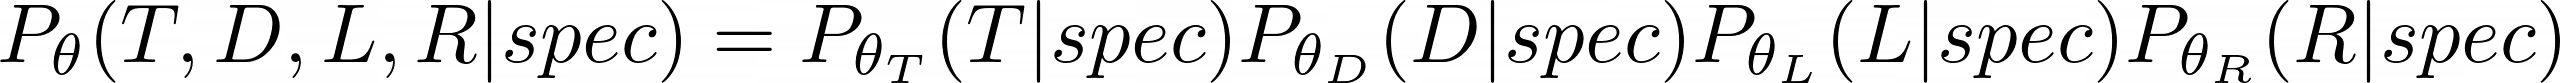
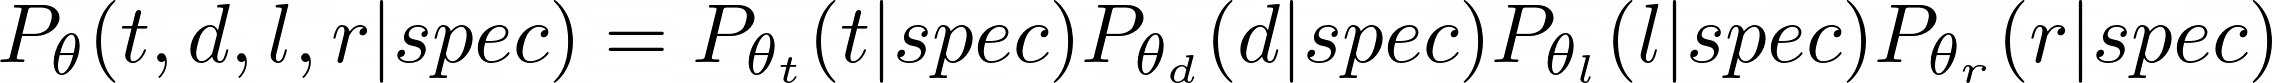
phew, done with part 3 edits

Changed region(s): [[0.0, 0.0, 1.0, 1.0]]

diff --git a/_posts/2022-08-16-generating-programs.md b/_posts/2022-08-16-generating-programs.md
@@ -1,56 +1,73 @@
 ---
 layout: post
-title:  "generating programs with language models"
+title:  "writing programs with language models"
 permalink: /generating-programs/
 ---
 
-With infinite compute, program synthesis is trivial -- just look through all programs for one that works. In practice, we need to find a working program with as few samples as possible. This post covers how to _generate_ programs using language modeling.
+With infinite compute, program synthesis is trivial -- iterate through all programs for one that works. In practice, we need to find a working program with as few samples as possible. This post covers how to _generate_ good programs using language modeling.
 
-Let's start with a short re-cap of last post.
+Let's start with a short recap of last post.
 
 ## the problem
-The `spec` is: rectangle that keeps the grass coordinates inside, and mushrooms outside.
+The task is make a rectangle that keeps the grass coordinates inside, and mushroom coordinates outside. This task is represented as a specification of input-outputs, `spec`, given below.
 ![Image with caption](/program-synthesis-primer/assets/generating-programs/spec.png "icons created by Freepik - Flaticon, monkik")
 
-## the dream and the reality
+## the ground-truth distribution
 
-Given this `spec`, let's look up its corresponding row `M[spec,:]` in the meaning matrix.
+Given this particular `spec`, let's look up its row `M[spec,:]` in the meaning matrix. For every rectangle (the program), this row contains information on whether it is correct on our `spec`.
 
 ![Image with caption](/program-synthesis-primer/assets/generating-programs/a-row.png)
 
-The **ground-truth distribution** for program synthesis can be constructed using `M[spec,:]`, with probability proportional to whether the entry `M[spec,prog]` is correct. This distribution gives uniform probability over correct programs, and 0 probability over incorrect programs.
+Given `spec`, the **ground-truth distribution** for program synthesis can be constructed by first counting[^model-counting] the number (`N`) of correct programs, and putting a weight of `1/N` on each.
 
-![Image with caption](/program-synthesis-primer/assets/generating-programs/ground-truth.png ){: width="70%" }
+![Image with caption](/program-synthesis-primer/assets/generating-programs/gt-distri.png)
+![Image with caption](/program-synthesis-primer/assets/generating-programs/ground-truth.png ){: width="60%" }
 
-The _dream_ is that we can easily sample from the ground-truth distribution. <ins>The _reality_ is that sampling from the ground-truth distribution is _hard_</ins> -- While we can easily check whether a given program is correct with respect to the spec, coming up with such programs is difficult. 
+Program synthesis requires us to sample from this ground-truth distribution. Unfortunately, sampling from the ground-truth distribution is _hard_. While we can easily check if a program is correct given the spec, coming up with correct programs is difficult. 
 
-## the synthesis algorithm
+## program synthesis as rejection sampling
 
 In practice, we resort to _rejection sampling_ from this ground-truth distribution using synthesis.
 
 ![Image with caption](/program-synthesis-primer/assets/generating-programs/approximate.png ){: width="75%" }
 
-This distribution is implemented by the synthesis algorithm -- a program writer _proposes_ somewhat plausible programs, then a checker _filters_ for correctness. 
+Given the specification, the program writer _proposes_ (a large number of) programs, then a checker _filters_ the proposals for correctness against the spec.
 
-![Image with caption](/program-synthesis-primer/assets/synthesis-problem/synthesizer-gut.png )
+![Image with caption](/program-synthesis-primer/assets/synthesis-problem/synthesizer-gut2.png )
 
-Thus, <ins>the better the writer (closer to ground-truth), the fewer programs the checker has to check</ins>. To implement a reasonable program writer, we turn to language models.
+## getting a program-writer close to ground-truth
+
+The "closer" the writer distribution is to the ground-truth, the fewer programs the synthesis algorithm has to sample (i.e. more efficient)[^not-true]. Closer is formalized as an expected KL-divergence:
+
+![Image with caption](/program-synthesis-primer/assets/generating-programs/approx-goal1.png ){: width="80%" }
+
+Which means, over a prior distribution of specifications `P(spec)`, we want `P_writer(prog|spec)` be close (small KL divergence) to `P_ground-truth(prog|spec)`. 
+
+ To obtain program writers that are close to ground-truth, we turn to language models.
 
 # language models
 
- A **language** is a set of strings (a sequence of characters). A **language model** assigns probabilies over the strings within a language. For a language model to be a good program writer, it needs to put high probabilities over strings that _resemble_ correct programs. We start with **unconditional language models** -- models that generates programs unconditioned on specifications. 
+A **language** is a set of strings (a sequence of characters). A **language model** assigns probabilies over the strings within a language[^karpathy]. Note: the programs in this post are all represented as strings.
+ 
+## unconditional generation
+
+We start with **unconditional language models** -- models that ignore the specifications. Ignoring the specification is certainly a limitation, but it makes a good starting point.
+
+![Image with caption](/program-synthesis-primer/assets/generating-programs/prior_approx.png ){: width="50%" }
+
+Let's fix a typical string representing a program, `"[1,3,1,4]"`, as our target to generate. We'll analyze how well can different unconditional language models generate it.
 
 ### all strings
-We can generate a sequence by uniformly picking a random character a number of times. This language contains all possible strings of a certain length.
+We can generate a string by uniformly picking a random character a number of times. This language contains all possible strings of a certain length.
 {% highlight python %}
 def writer1():
     return ''.join(random.choice(string.printable) for i in range(9))
 print(writer1()) # you should see something like "=1Vi![Au37"
 {% endhighlight %}
-A typical program string such as `[1,3,1,4]` has 9 characters, and each character has a probability of `1 / len(string.printable)`. Thus this writer has a `(1/100)^9` chance of stumbling across it.
+A typical program string such as `"[1,3,1,4]"` has 9 characters, each has a probability of `1 / len(string.printable)`. Thus this writer has a `(1/100)^9` chance of stumbling across it. Not good.
 
-### writable programs
-We can restrict the generation to "strings that look like programs". This is done with a **domain specific language** (DSL), which identifies a "reasonable" subset of all-strings as programs. The DSL is specified by a **generator** -- a process capable of generating strings within the DSL.
+### DSL
+We can restrict the generation to "strings that look like programs". This is done with a **domain specific language** (DSL), which identifies a "reasonable" subset of all-strings as programs. The DSL is specified by a **generator** -- a process capable of generating strings within the DSL[^DSL].
 {% highlight python %}
 def writer2():
     # W is globally defined to be 6
@@ -61,9 +78,9 @@ def writer2():
     return '['+str(U)+','+str(D)+','+str(L)+','+str(R)+']'
 print(writer2()) # you should see something like "[5,2,1,0]"
 {% endhighlight %}
-By giving structure to the language, we increased our chance to `(1/6)^4` to encounter the program `[1,3,1,4]`, despite our DSL containing uninterpretable programs such as `[5,2,1,0]`.
+Giving structure to the language, we increased our chance to `(1/6)^4` to encounter the program `"[1,3,1,4]"`, despite our DSL containing uninterpretable programs such as `"[5,2,1,0]"`.
 
-### legal programs
+### better DSL
 We can further refine our DSL to be "tighter" to exclude uninterpretable programs. 
 {% highlight python %}
 def writer3():
@@ -75,14 +92,14 @@ def writer3():
     return '['+str(U)+','+str(D)+','+str(L)+','+str(R)+']'
 print (writer3()) # you should see something like "[0,2,4,5]"
 {% endhighlight %}
-What's our chances of stumbling across `[1,3,1,4]` now? I'll leave the combinatorics to you -- is `writer3` uniform across all legal programs? 
+What's our chances of stumbling across `"[1,3,1,4]"` now? I'll leave the combinatorics to you. Bonus question, is `writer3` uniform across all interpretable programs? 
 
-### unconditional generation is prior distribution of programs
-The language models covered so-far are un-conditional language models, with no way to "steer" it into different distributions. This is a **prior distribution** -- how programs are naturally distributed, in the absence of specifications. One can use the prior `P(prog)` as a program writer as is.
+## synthesis with prior distribution
+Unconditional language models gives a **prior distribution** -- how programs are naturally distributed, in the absence of specifications. One can use the prior `P(prog)` as a writer as-is.
 
 ![Image with caption](/program-synthesis-primer/assets/generating-programs/prior-synthesis.png ){: width="75%" }
 
-This often resulting in a "good enough" synthesis algorithm for a small space of programs, and is among the first things a synthesis practictioner will try. We now turn to conditional generation.
+This often resulting in a "good enough" synthesis algorithm for a small space of programs[^lambda2], and is among the first things a synthesis practictioner will try.
 
 <br>
 <hr>
@@ -90,23 +107,51 @@ This often resulting in a "good enough" synthesis algorithm for a small space of
 <hr>
 <br>
 
-# approximating ground-truth via training
+# training a conditional generator
 
-Rather than approximating ground-truth synthesis distribution by hand, it is often simpler to _train_ a parameterized program-writer `P_theta(prog|spec)`. The objective is this:
+In conditional generation, a program writer takes `spec` into account while sampling for plausible programs. We have seen a few from last post. However, it is often simpler to _train_ a parameterized program-writer using data.
 
-<br>
-![Image with caption](/program-synthesis-primer/assets/generating-programs/approx-goal.png ){: width="90%" }
-<br>
-Which is to say, over some distribution of specs, minimize the KL distance between the ground-truth and the program-writer. 
+![Image with caption](/program-synthesis-primer/assets/generating-programs/param-writer.png ){: width="50%" }
 
-To turn this objective into an algorithm, we leverage a remarkable property of programs: while it is difficult to generate correct programs from specifications, <ins>it is trivial to generate correct specifications from programs</ins>.
+Here, the writer is from a parametric family of functions (e.g. neural networks with weights), and we seek to find a parameter `theta` that minimizes the expected KL-divergence between our writer distribution and the ground-truth distribution. 
+
+![Image with caption](/program-synthesis-primer/assets/generating-programs/objective-eq.png ){: width="90%" }
+
+We have a conundrum -- To optimize this objective, we need the ground-truth distribution to begin with! We resolve this issue by exploiting the following asymmetry:
+
+![Image with caption](/program-synthesis-primer/assets/generating-programs/the-trick.png ){: width="80%" }
+
+## the approximation lemma of program synthesis
+**lemma:** Let **D** be a dataset consisting of `(prog,spec)` pairs drawn from the joint-distribution `P(prog,spec)`. We can use conditional density estimation on D (i.e. supervised learning) to approximate the ground-truth synthesis distribution  [^thm1].
+
+![Image with caption](/program-synthesis-primer/assets/generating-programs/lemma.png ){: width="90%" }
+
+With a big enough dataset D and a flexible enough model class, training the program-writer `P_theta(prog|spec)` will approach the ground-truth distribution. Moreover, generating D is fully automatic and requires no human annotations! I'll show you how.
+
+## making the dataset D of joint-distribution samples
+Each data-point of D is a tuple `(prog,spec)` from this distribution:
+
+![Image with caption](/program-synthesis-primer/assets/generating-programs/joint-sample.png ){: width="50%" }
+
+We first generate a program from a prior, then a specification conditioned on this program.
+
+![Image with caption](/program-synthesis-primer/assets/generating-programs/generate-D1.png ){: width="90%" }
+
+## generating programs from a prior
+
+We know how to do this already -- this is simply unconditional language generation (e.g. `writer3` from earlier). Still, if we can actually obtain a naturalistic dataset of programs, it would serve as a better prior. For instance, codex leveraged the github corpus. 
 
 ## generating specifications from programs
-Given a program, we can generate a specification for it by: (1) sampling some random inputs, (2) executing the program to obtain their corresponding outputs.
+Given a program, we can generate a specification for it by: 
+1. sampling some random inputs
+2. executing the program to obtain their corresponding outputs.
+
+For our rectangle domain, we first generate some random coordinates (inputs), and see where they lie (outputs) on a given rectangle (program). 
 
 ![Image with caption](/program-synthesis-primer/assets/generating-programs/sampling-spec.png ){: width="90%" }
 
 This is what it looks like in code:
+
 {% highlight python %}
 def sample_input():
     return random.randint(0,W-1), random.randint(0,W-1)
@@ -123,17 +168,9 @@ r_spec = sample_spec("[1,3,1,4]")
 print (r_spec) # [((5, 2), False), ((4, 4), False), ((0, 1), False), ((3, 3), True)]
 {% endhighlight %}
 
-## procedurally generating a dataset **D**
+## putting it together
 
-We can generate a **dataset** D by first generating a program, then generate its specification.
-
-![Image with caption](/program-synthesis-primer/assets/generating-programs/generate-D.png ){: width="90%" }
-
-Each point of the dataset follows this distribution:
-
-![Image with caption](/program-synthesis-primer/assets/generating-programs/joint-sample.png ){: width="50%" }
-
-This is what it looks like in code:
+This is how you typically generate a dataset D for a given synthesis problem.
 
 {% highlight python %}
 def sample_D(n_samples):
@@ -150,44 +187,29 @@ print (D[4542]) # should see something like ('[3,5,4,6]', [((1, 0), False), ((5,
 
 ## D is a sample of M
 
-One should view <ins>the dataset D as a *sampled summary* of the meaning matrix M</ins>. While it is impossible to enumerate all entries of M, we can nonetheless take samples from it.
+One should view <ins>the dataset D as a *sampled summary* of the meaning matrix M</ins>. While it is impossible to enumerate all entries of M, we can nonetheless take samples from it. By taking more and more samples, we can better observe the landscape of M.
 
 ![Image with caption](/program-synthesis-primer/assets/generating-programs/sample_D.png ){: width="80%" }
 
-## the approximation theorem of program synthesis
-
-<br>
-<ins>**theorem**: For a parameterized program-writer, we can use supervised learning on D to approximate the ground-truth synthesis distribution.</ins>
-
-![Image with caption](/program-synthesis-primer/assets/generating-programs/approx-kl.png ){: width="90%" }
-<br>
-
-[Full proof typical in the style of variational inference, (X=spec, Y=prog)](/program-synthesis-primer/assets/generating-programs/proof.jpeg) with [kevin's approval](/program-synthesis-primer/assets/generating-programs/proof.png).
-
-This is a typical result from most amortized inference set-ups, where the "forward" probability is simple and the "backward" can be learned. Nonetheless, this theorem has practical implications. 
-
-1. (scaling) training the program-writer will approach the ground-truth distribution in the limit
-    - given a big enough sample of D
-    - given a flexible enough model class of program-writers
-2. (procedural) generating D requires no human annotations
-    - the entirety of M is defined by progs, specs, and the interpreter that relates them
-    - attractive for self-play style of trainings
+With the dataset D, we're now ready to do some learning.
 
 <br>
 <hr>
-[Let's take another break](https://www.youtube.com/watch?v=c--etqIJcow&ab_channel=RapidLiquid). We're almost done
+[phew! let's take another break](https://www.youtube.com/watch?v=c--etqIJcow&ab_channel=RapidLiquid). We're almost done
 <hr>
 <br>
 
-# conditional generation using unigrams
+# conditional generation with fitted unigrams
 Let's put the theory into practice using our rectangle example. One of the simplest ways to generate programs is a **unigram distribution** where, conditioned on the `spec`, samples each attributes of the program _independently_. Note that we're accepting this flawed assumption (the parameters of the rectangles are definitely not independent) for computational simplicity. 
 
 ![Image with caption](/program-synthesis-primer/assets/generating-programs/factored.png ){: width="90%" }
 
-Each of the T,D,L,R factors can then be treated as a multi-way classification problem. For no particular reason, we'll model it using `sklearn.linear_model.LogisticRegression()`.
+We can treat a factor, such as `t`, as its own multi-way classification problem, mapping the specification to the top boundary (i.e. one of `[0, 1, ... W-2]`) of the rectangle.
 
-### encoding the spec
-We choose to encode the spec in the most naive way possible, as a linearized (WxWx2) grid, where the last "channel" indicate whether a coordinate in WxW is inside or outside the rectangle.
+## encoding the spec as a vector of binary features
+We encode the spec naively as a binary, linearized (WxWx2) feature vector.
+
+![Image with caption](/program-synthesis-primer/assets/generating-programs/bit-vec1.png ){: width="90%" }
 
 {% highlight python %}
 def spec_to_bitvec(spec):
@@ -200,14 +222,15 @@ def spec_to_bitvec(spec):
     return bitvec.flatten()
 {% endhighlight %}
 
-### fitting the factors independently
+## fitting the factors independently
+Given our spec feature vector, we fit 4 different conditional unigram distributions, one for each attribute of the rectangle using logisticRegression[^logreg]. Feel free to experiment with other classifiers such as boosted trees, nearest neighbors, or a conv-net.
 
 {% highlight python %}
 import sklearn.linear_model
 # train the unigram distribution
-def train_unigram(D):
+def train_unigram(Data):
     spec_bitvec, Ts, Ds, Ls, Rs = [], [], [], [], []
-    for prog, spec in D:
+    for prog, spec in Data:
         T, D, L, R = eval(prog)
         spec_bitvec.append(spec_to_bitvec(spec))
         Ts.append(T)
@@ -231,7 +254,10 @@ def train_unigram(D):
     return model_T, model_D, model_L, model_R
 {% endhighlight %}
 
-### making a program-writer using the fitted unigrams
+## making a program-writer using the fitted unigrams
+
+Once our conditional unigram distribution is fitted, we can use it to write programs at inference time. Each attribute of the rectangle will be sampled independently, and put together to form a (hopefully valid) rectangle.
+
 {% highlight python %}
 def get_writer4(model_T, model_D, model_L, model_R):
     def writer4(spec):
@@ -248,19 +274,32 @@ def get_writer4(model_T, model_D, model_L, model_R):
     return writer4
 {% endhighlight %}
 
-## compare different language models
+## compare different language models as program writers
 
-We can now create different program synthesizers by using different writers, including the manual `better_writer` algorithm from last post:
+We can now create different program synthesizers by using different conditional and un-conditional writers, including the manual `better_writer` algorithm from last post:
 
 {% highlight python %}
+# ignoring the spec for unconditional writers
 synthesizer1 = get_synthesizer(lambda spec : writer1(), is_correct, 100)
 synthesizer2 = get_synthesizer(lambda spec : writer2(), is_correct, 100)
 synthesizer3 = get_synthesizer(lambda spec : writer3(), is_correct, 100)
+# our fitted unigram writer
 synthesizer4 = get_synthesizer(get_writer4(*train_unigram(D_train)), is_correct, 100)
+# the manual writer from last post
 synthesizer5 = get_synthesizer(manual_writer, is_correct, 100)
 {% endhighlight %}
 
-The customary plot comparing different synthesis algorithms shows **search budget** on the x axis, and **fraction of tasks solved** on the y axis.
+The customary plot comparing different synthesis algorithms shows **search budget** on the x axis, and **fraction of tasks solved** on the y axis. To generate this plot, we make a test set `D_test` and run all our contestant synthesizers on it, keeping track of how many samples each synthesizer required before a solution is found.
+{% highlight python %}
+    to_plot = [[], [], [], [], []]
+    for _, spec in D_test:
+        for synth_id, synth in enumerate([synthesizer1, synthesizer2, synthesizer3, synthesizer4, synthesizer5]):
+            samples_needed, prog = synth(spec)
+            to_plot[synth_id].append(samples_needed)
+    print (to_plot)
+{% endhighlight %}
+
+We then iterate over different budgets, from 0 to 100, and count how many synthesis tasks can be solved with equal or less budget. Do this for each of the synthesizers produces the following plot:
 
 ![Image with caption](/program-synthesis-primer/assets/generating-programs/synth-performance2.png ){: width="90%" }
 
@@ -277,3 +316,18 @@ In this post we covered how to obtain several reasonable program writers, includ
 
 ## up next
 The next post cover we'll cover how to fine-tune a large language model for the same task, which offers additional flexibilities. [let's go for it](/program-synthesis-primer/generation-with-llm/)
+
+### notes
+[^model-counting]: [model counting](https://www.cs.cornell.edu/~sabhar/chapters/ModelCounting-SAT-Handbook-prelim.pdf)
+
+[^not-true]: This is not entirely accurate. In practice, we're often interested in finding _just one_ correct program instead of uniformly sampling from _every_ correct program.
+
+[^karpathy]: You can find good resources online about language modeling, such as [a short intro to language modeling by Karpathy](https://youtu.be/PaCmpygFfXo)
+
+[^lambda2]: Enumerative synthesis such as [lambda-squared by John Feser](https://www.cs.utexas.edu/~swarat/pubs/pldi15.pdf) uses program-length prior distribution (longer programs are less likely) and aggressive space-pruning.
+
+[^DSL]: On one hand, any data structure (think json) that can be "executed" on an interpreter you've build is a DSL. On the other hand, you can get fairly deep into building a compiler (see you in a year!). I'd start with something simple like [this](https://youtu.be/FQFV6ikhgiQ) or [this](https://youtu.be/88lmIMHhYNs).
+
+[^thm1]: [Full derivation typical in the style of variational inference](/program-synthesis-primer/assets/generating-programs/proof_latex.png) with [kevin's approval](/program-synthesis-primer/assets/generating-programs/proof.png).
+
+[^logreg]: Refer to the "example" section of [this documentation on scipy's logistic regression](https://scikit-learn.org/stable/modules/generated/sklearn.linear_model.LogisticRegression.html)
